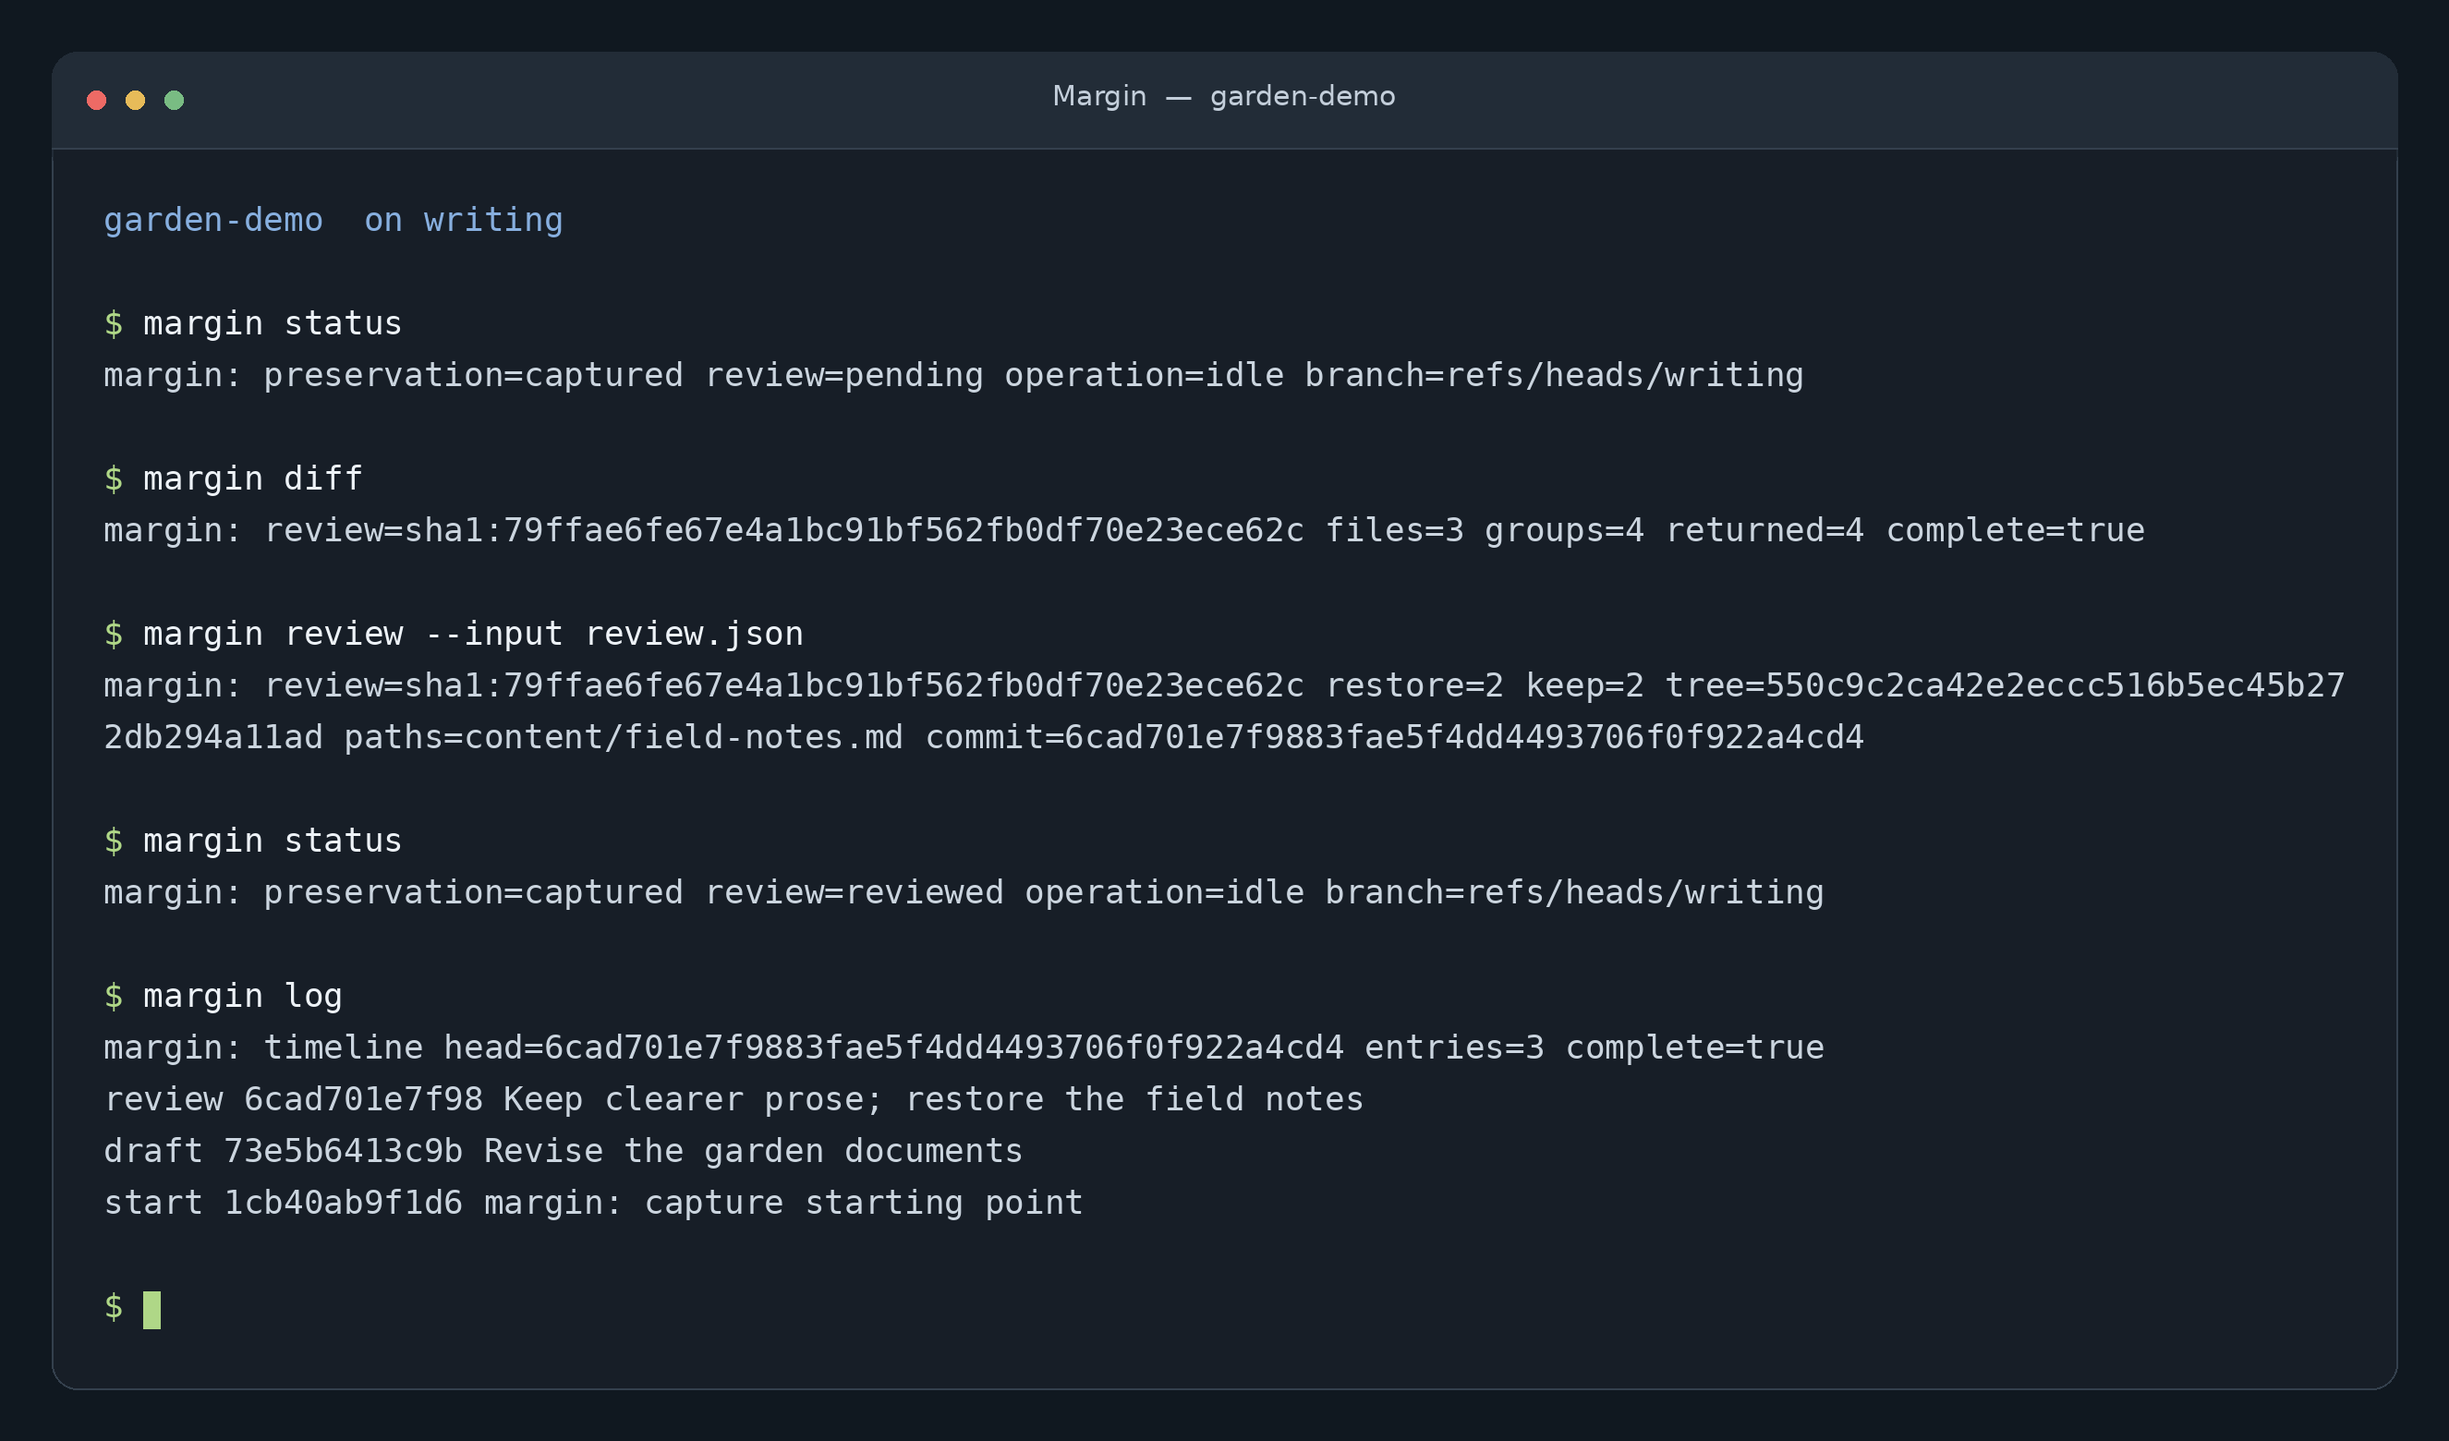
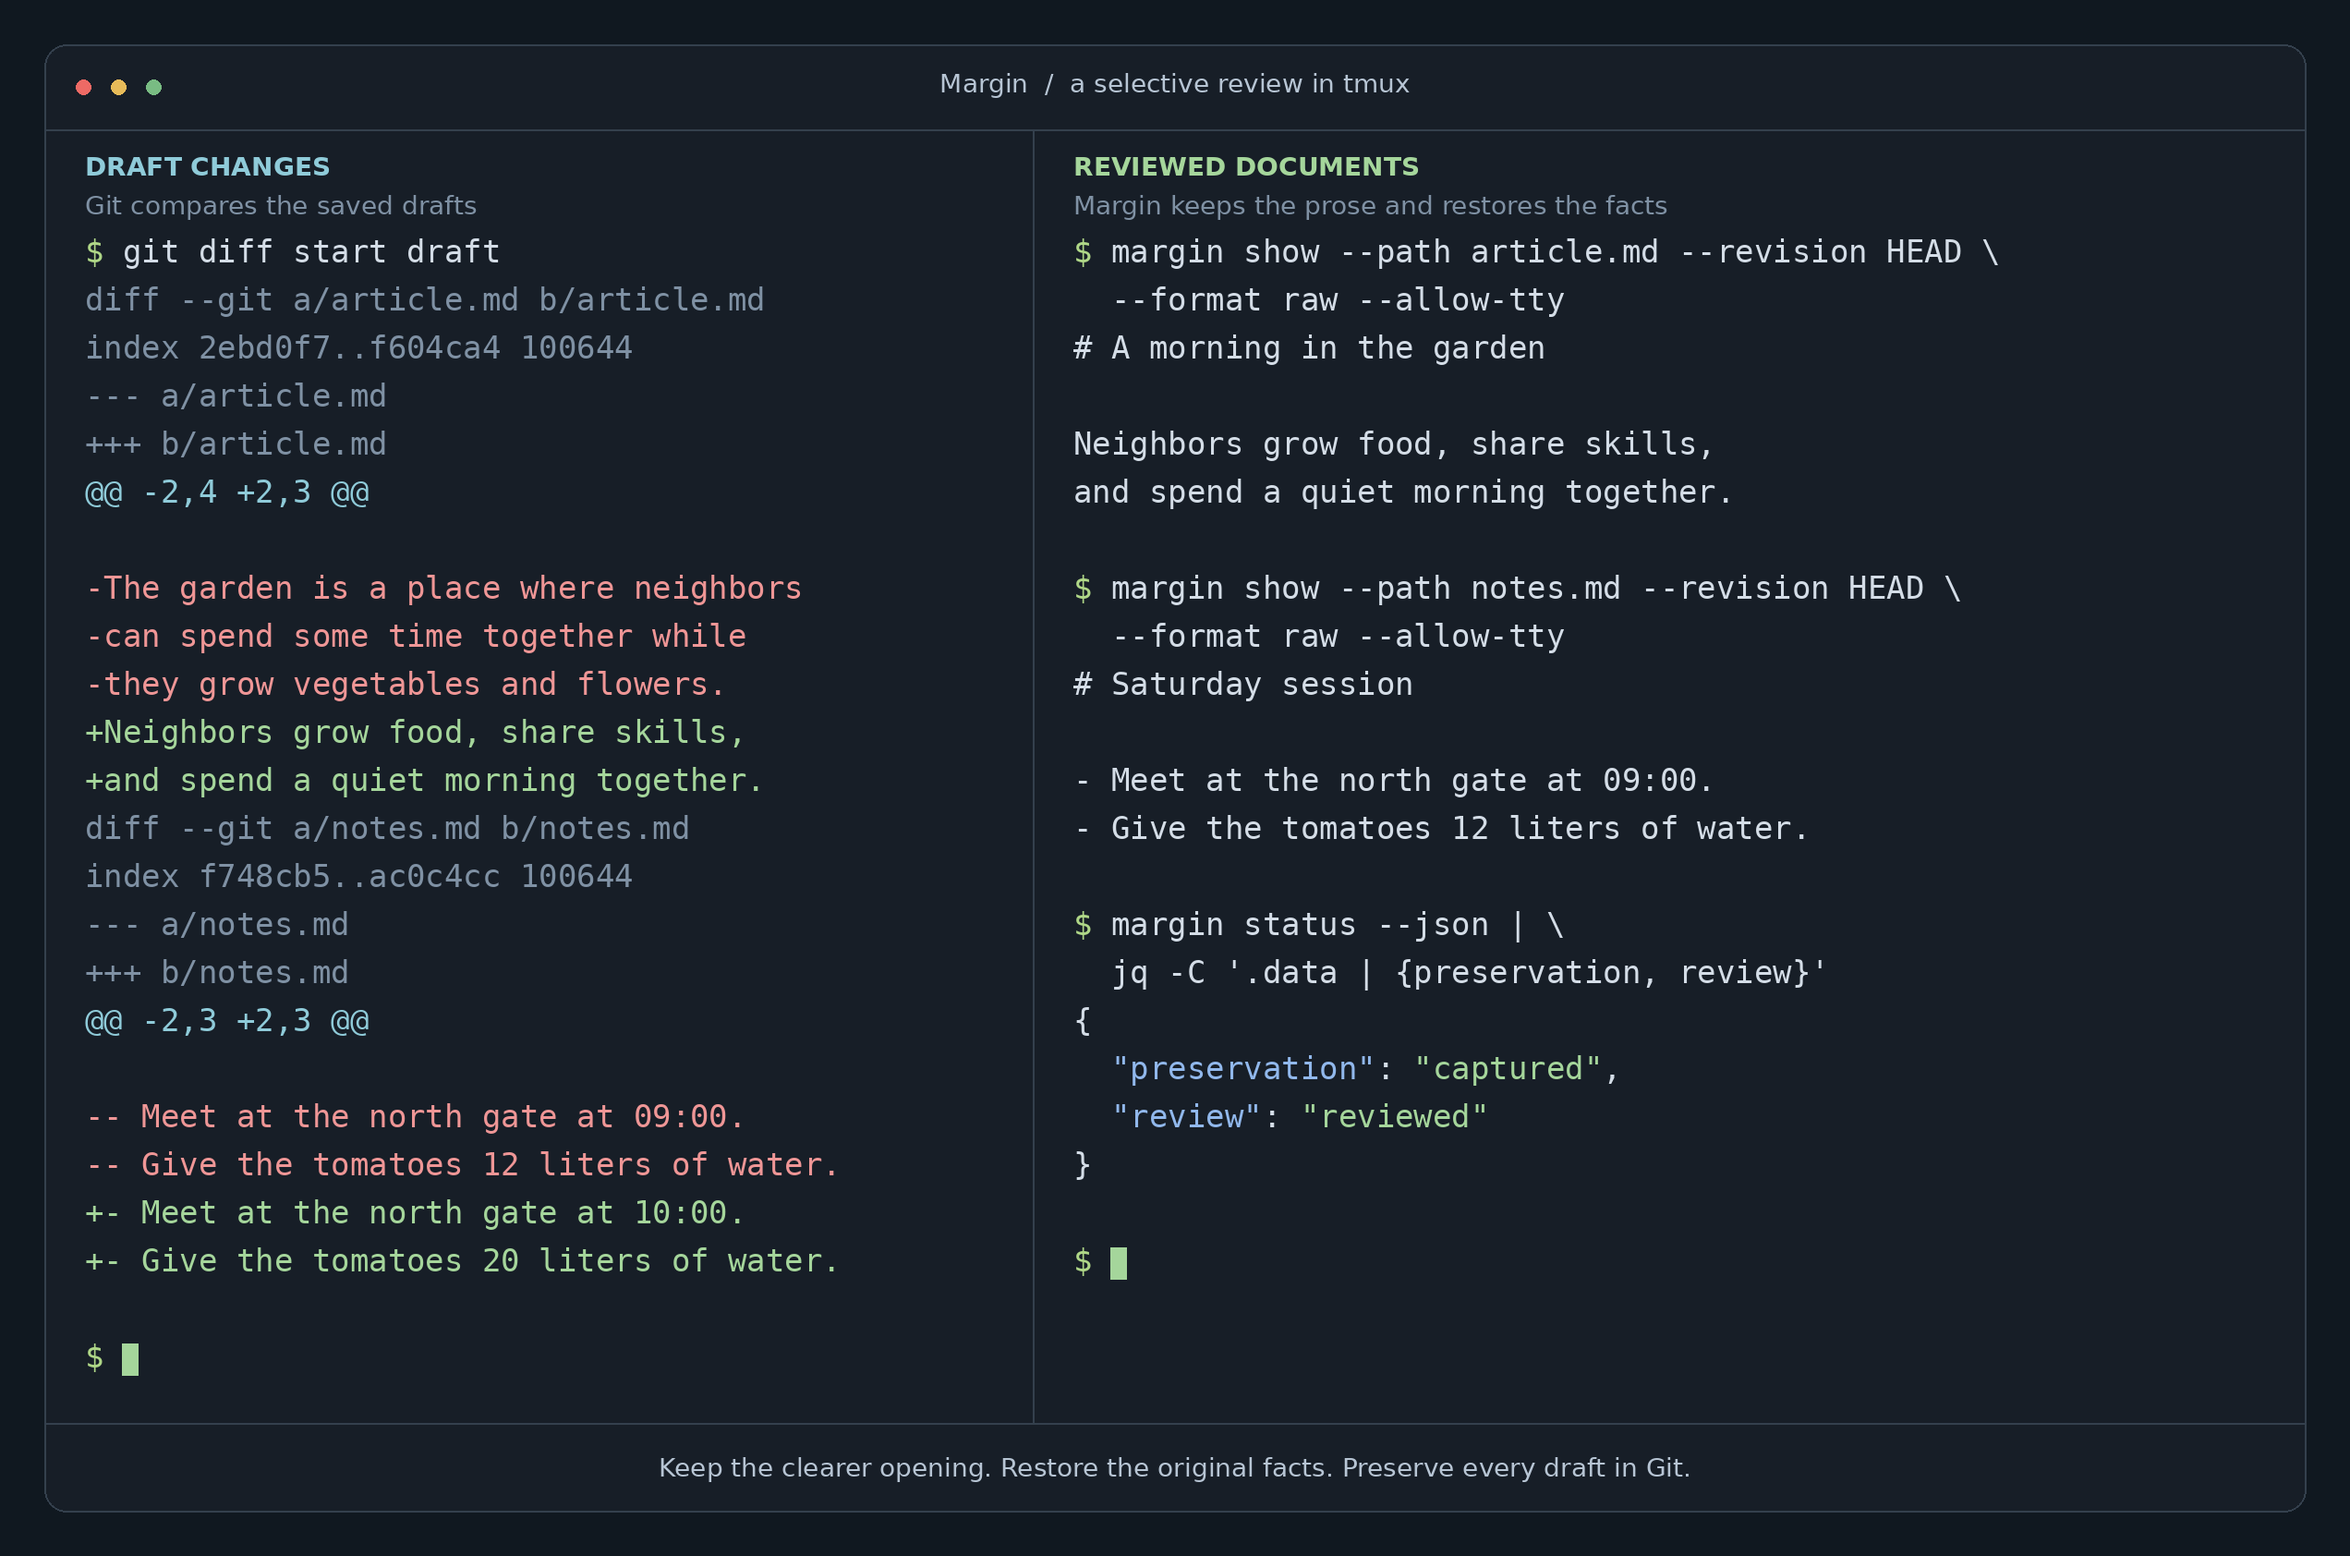
Docs: Show document review in the README
Replace the identifier-heavy terminal capture with a tmux demonstration.
Show draft changes beside the reviewed prose and restored facts. Label
Git and Margin output explicitly and retain the captured transcript.

diff --git a/README.md b/README.md
@@ -2,7 +2,11 @@
 
 Save and review Markdown edits through ordinary Git history.
 
-![Margin terminal session showing pending changes, selective review, reviewed status, and Git history.](docs/assets/margin-terminal.png)
+![A tmux demonstration: draft edits on the left; clearer prose, restored facts, and reviewed status on the right.](docs/assets/margin-terminal.png)
+
+*Example review in tmux. Git shows the draft changes on the left. Margin
+shows the reviewed documents on the right: keep the shorter opening and
+restore the original facts.*
 
 Margin is a command-line tool for writing projects. Capture a draft,
 inspect its changes, then keep or restore selected passages.
